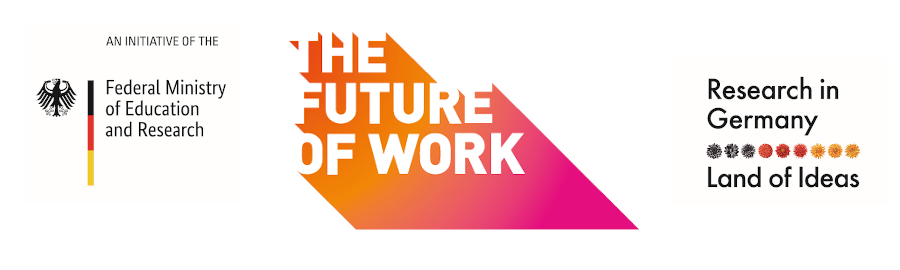
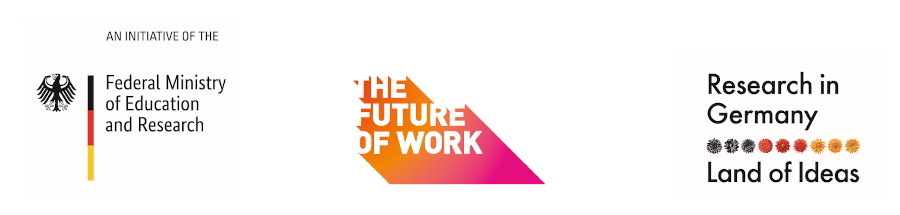
Header update

diff --git a/layout.css b/layout.css
@@ -59,7 +59,7 @@ blockquote {
 
 #header {
         width: 900px;
-        height: 270px;
+        height: 215px;
         margin: 0 auto;
         padding: 0px;
         background: url(bilder/4.jpg) no-repeat left top;
